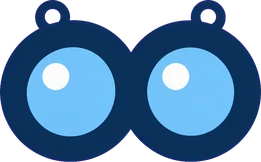
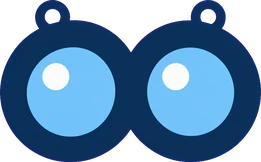
Maviş'e yeni hareketler: konuşma, ötme, sevinç, şaşırma, uyuklama, uçma, sevgi
- Yeni parçalar www/img/mavis (açık gaga, mutlu/şaşkın/uykulu gözler, uçuş kanatları, kabaran tepe); kuyruk iptal
- Sohbette Maviş'e dokununca 9 tepki sırayla; pencerelerde: yeni kayıtlar → sevinç, eBird fotoğrafları → şaşırma, ilk izlenim → sevgi, yeni gözlem hatırlatması → konuşma
- Service worker yeni parçaları da önbelleğe alır; paylaşım kartı yalnız gereken parçaları yükler

Claude-Session: https://claude.ai/code/session_012mXBh1959G4NnPsQR1ZGG4

diff --git a/www/index.html b/www/index.html
@@ -60,7 +60,7 @@
         .guide-body li { margin-bottom: 4px; }
         /* ===== Maviş animasyonları ===== */
         .mavis { display: inline-block; vertical-align: middle; overflow: visible; }
-        .mavis .mv-all, .mavis .mv-wing-l, .mavis .mv-wing-r, .mavis .mv-binoc, .mavis .mv-pupil { transform-box: fill-box; }
+        .mavis g, .mavis .mv-deco > * { transform-box: fill-box; }
         .mavis .mv-all { transform-origin: 50% 100%; animation: mv-bob 3s ease-in-out infinite; }
         .mavis .mv-eyes { animation: mv-blink-o 4s infinite; }
         .mavis .mv-eyes-c { opacity: 0; animation: mv-blink-c 4s infinite; }
@@ -92,6 +92,61 @@
         .mavis.mv-r-wave .mv-wing-r { transform-origin: 25% 10%; animation: mv-wave 0.55s ease-in-out 2; }
         @keyframes mv-qblink-o { 0%,100% { opacity: 1; } 25%,75% { opacity: 0; } }
         @keyframes mv-qblink-c { 0%,100% { opacity: 0; } 25%,75% { opacity: 1; } }
+        /* 20 Kasım: yeni hareketler (konuşma, ötme, sevinç, şaşırma, uyuklama, uçma, sevgi) – modlar .mavis-<ad>, dokunma tepkileri .mv-r-<ad> */
+        .mavis .mv-beak, .mavis .mv-e-mutlu, .mavis .mv-e-saskin, .mavis .mv-e-uyku, .mavis .mv-flyL, .mavis .mv-flyR, .mavis .mv-crest, .mavis .mv-deco > *, .mavis .mv-notes text, .mavis .mv-z text { opacity: 0; }
+        .mavis-talk .mv-beak { animation: mv-talk .5s steps(1) infinite; }
+        .mavis-sing .mv-beak, .mv-r-sing .mv-beak { opacity: 1; }
+        .mavis-sing .mv-eyes, .mavis-sing .mv-eyes-c, .mv-r-sing .mv-eyes, .mv-r-sing .mv-eyes-c,
+        .mavis-happy .mv-eyes, .mavis-happy .mv-eyes-c, .mv-r-happy .mv-eyes, .mv-r-happy .mv-eyes-c,
+        .mavis-love .mv-eyes, .mavis-love .mv-eyes-c, .mv-r-love .mv-eyes, .mv-r-love .mv-eyes-c,
+        .mavis-wow .mv-eyes, .mavis-wow .mv-eyes-c, .mv-r-wow .mv-eyes, .mv-r-wow .mv-eyes-c { opacity: 0; animation: none; }
+        .mavis-sing .mv-e-mutlu, .mv-r-sing .mv-e-mutlu, .mavis-happy .mv-e-mutlu, .mv-r-happy .mv-e-mutlu, .mavis-love .mv-e-mutlu, .mv-r-love .mv-e-mutlu { opacity: 1; }
+        .mavis-sing .mv-all, .mv-r-sing .mv-all { animation: mv-sway 1.2s ease-in-out infinite; }
+        .mavis-sing .mv-notes, .mv-r-sing .mv-notes { opacity: 1; }
+        .mavis-sing .mv-notes text, .mv-r-sing .mv-notes text { animation: mv-note 1.8s ease-out infinite; }
+        .mavis .mv-notes .n2 { animation-delay: .6s; } .mavis .mv-notes .n3 { animation-delay: 1.2s; }
+        .mavis-happy .mv-all { animation: mv-hop .55s ease-out 3, mv-bob 3s ease-in-out 1.65s infinite; }
+        .mv-r-happy .mv-all { animation: mv-hop .55s ease-out 3; }
+        .mavis-happy .mv-crest, .mv-r-happy .mv-crest { opacity: 1; transform-origin: 50% 100%; animation: mv-crest .55s ease-out 3; }
+        .mavis-happy .mv-wing-l, .mv-r-happy .mv-wing-l { transform-origin: 75% 10%; animation: mv-flapL .55s ease-in-out 3; }
+        .mavis-happy .mv-wing-r, .mv-r-happy .mv-wing-r { transform-origin: 25% 10%; animation: mv-flapR .55s ease-in-out 3; }
+        .mavis-wow .mv-e-saskin, .mv-r-wow .mv-e-saskin { opacity: 1; transform-origin: 50% 50%; animation: mv-pop .35s ease-out 1; }
+        .mavis-wow .mv-crest, .mv-r-wow .mv-crest { opacity: 1; transform-origin: 50% 100%; animation: mv-crestup .3s ease-out forwards; }
+        .mv-r-wow .mv-beak { opacity: 1; }
+        .mavis-wow .mv-all, .mv-r-wow .mv-all { animation: mv-jolt .4s ease-out 1, mv-bob 3s ease-in-out .4s infinite; }
+        .mavis-wow .mv-unlem, .mv-r-wow .mv-unlem { transform-origin: 50% 100%; animation: mv-unlem 1.8s ease-out 1; }
+        .mavis-sleep .mv-eyes { opacity: 0; animation: none; }
+        .mavis-sleep .mv-e-uyku { animation: mv-uyku 4s ease-in-out infinite; } .mavis-sleep .mv-eyes-c { animation: mv-uykuc 4s ease-in-out infinite; }
+        .mavis-sleep .mv-all { animation: mv-breath 4s ease-in-out infinite; }
+        .mavis-sleep .mv-z { opacity: 1; } .mavis-sleep .mv-z text { animation: mv-zz 3s ease-out infinite; }
+        .mavis .mv-z .z2 { animation-delay: 1s; } .mavis .mv-z .z3 { animation-delay: 2s; }
+        .mavis-fly .mv-wing-l, .mavis-fly .mv-wing-r, .mv-r-fly .mv-wing-l, .mv-r-fly .mv-wing-r { opacity: 0; }
+        .mavis-fly .mv-flyL, .mv-r-fly .mv-flyL { opacity: 1; transform-origin: 92% 88%; animation: mv-flyL .32s ease-in-out infinite; }
+        .mavis-fly .mv-flyR, .mv-r-fly .mv-flyR { opacity: 1; transform-origin: 8% 88%; animation: mv-flyR .32s ease-in-out infinite; }
+        .mavis-fly .mv-all, .mv-r-fly .mv-all { animation: mv-hover 1.6s ease-in-out infinite; }
+        .mavis-love .mv-kalp, .mv-r-love .mv-kalp { opacity: 1; transform-origin: 50% 50%; animation: mv-heart 1.4s ease-in-out infinite; }
+        .mavis-love .mv-wing-l, .mv-r-love .mv-wing-l { transform-origin: 75% 10%; animation: mv-hug-l 1.4s ease-in-out 2; }
+        .mavis-love .mv-wing-r, .mv-r-love .mv-wing-r { transform-origin: 25% 10%; animation: mv-hug-r 1.4s ease-in-out 2; }
+        @keyframes mv-talk { 0% { opacity: 1; } 50% { opacity: 0; } }
+        @keyframes mv-sway { 0%,100% { transform: rotate(-3deg); } 50% { transform: rotate(3deg); } }
+        @keyframes mv-note { 0% { opacity: 0; transform: translate(0,0); } 20% { opacity: 1; } 100% { opacity: 0; transform: translate(60px,-160px); } }
+        @keyframes mv-crest { 0%,100% { transform: scaleY(1); } 60% { transform: translateY(-14px) scaleY(1.06); } }
+        @keyframes mv-crestup { to { transform: translateY(-26px) scaleY(1.08); } }
+        @keyframes mv-flapL { 0%,100% { transform: rotate(0); } 50% { transform: rotate(28deg); } }
+        @keyframes mv-flapR { 0%,100% { transform: rotate(0); } 50% { transform: rotate(-28deg); } }
+        @keyframes mv-pop { 0% { transform: scale(.4); } 70% { transform: scale(1.15); } 100% { transform: scale(1); } }
+        @keyframes mv-jolt { 0% { transform: translateY(0); } 35% { transform: translateY(-40px); } 100% { transform: translateY(0); } }
+        @keyframes mv-unlem { 0% { opacity: 0; transform: scale(.4); } 15% { opacity: 1; transform: scale(1.15); } 25%,75% { opacity: 1; transform: scale(1); } 100% { opacity: 0; } }
+        @keyframes mv-uyku { 0%,55%,100% { opacity: 1; } 65%,90% { opacity: 0; } }
+        @keyframes mv-uykuc { 0%,55%,100% { opacity: 0; } 65%,90% { opacity: 1; } }
+        @keyframes mv-breath { 0%,100% { transform: scale(1,1); } 50% { transform: scale(1.03,.97); } }
+        @keyframes mv-zz { 0% { opacity: 0; transform: translate(0,0); } 25% { opacity: 1; } 100% { opacity: 0; transform: translate(50px,-110px); } }
+        @keyframes mv-flyL { 0%,100% { transform: rotate(18deg); } 50% { transform: rotate(-22deg); } }
+        @keyframes mv-flyR { 0%,100% { transform: rotate(-18deg); } 50% { transform: rotate(22deg); } }
+        @keyframes mv-hover { 0%,100% { transform: translateY(-40px); } 50% { transform: translateY(-85px); } }
+        @keyframes mv-heart { 0%,100% { transform: scale(.85); } 50% { transform: scale(1.1) translateY(-20px); } }
+        @keyframes mv-hug-l { 0%,100% { transform: rotate(0); } 50% { transform: rotate(-30deg) translateX(30px); } }
+        @keyframes mv-hug-r { 0%,100% { transform: rotate(0); } 50% { transform: rotate(30deg) translateX(-30px); } }
         .mv-gem { color: #1662B6; font-weight: 600; text-decoration: underline; cursor: pointer; }
         #ai-settings.vurgu { animation: ai-vurgu 1.6s ease-out 1; border-radius: 8px; }
         @keyframes ai-vurgu { 0%,40% { box-shadow: 0 0 0 3px #F5C518; } 100% { box-shadow: 0 0 0 3px rgba(245,197,24,0); } }
@@ -1273,7 +1328,7 @@
         // Çizim: Copilot parçaları (magaza/maskot → scripts/maskot.py + maskot-birlestir.py → img/mavis/*.webp).
         // Parçalar ayrı (animasyon için): mv-all, mv-wing-l, mv-wing-r, mv-eyes (açık), mv-eyes-c (kapalı), mv-pupil, mv-binoc, mv-strap
         // mode: 'idle' (göz kırpar), 'wave' (el sallar), 'think' (dürbünü gözüne kaldırır), 'look' (sağa sola bakar)
-        const MAVIS_P = {"govde":[253,37,745,1163],"kanatL":[168,713,215,345],"kanatR":[868,713,215,345],"gozL":[390,371,150,154],"gozR":[710,371,150,155],"kapaliL":[382,416,165,77],"kapaliR":[702,417,165,77],"durbun":[432,759,390,242]};
+        const MAVIS_P = {"govde":[253,38,745,1162],"kanatL":[168,713,215,344],"kanatR":[868,713,215,344],"gozL":[390,371,150,154],"gozR":[710,371,150,155],"kapaliL":[382,416,165,77],"kapaliR":[702,416,165,77],"durbun":[432,759,390,241],"gaga":[566,447,112,109],"mutluL":[390,410,150,84],"mutluR":[710,410,150,84],"saskinL":[376,357,178,177],"saskinR":[696,357,178,177],"uykuL":[381,364,168,148],"uykuR":[701,364,168,147],"acikL":[90,490,320,382],"acikR":[844,490,320,382],"tepe":[279,10,690,345]};
         function mavisSVG(size, mode, src) {
             mode = mode || 'idle';
             const im = k => { const [x, y, w, h] = MAVIS_P[k]; return `<image href="${src ? src(k) : 'img/mavis/' + k + '.webp'}" x="${x}" y="${y}" width="${w}" height="${h}"/>`; };
@@ -1281,17 +1336,29 @@
               <g class="mv-all">
                 <ellipse cx="627" cy="1196" rx="300" ry="20" fill="#0A3E70" opacity="0.1"/>
                 ${im('govde')}
+                <g class="mv-crest">${im('tepe')}</g>
                 <path class="mv-strap" d="M432,688 C455,720 485,752 512,780 M822,688 C799,720 769,752 742,780" stroke="#7A4A22" stroke-width="12" fill="none" stroke-linecap="round"/>
                 <g class="mv-wing-l">${im('kanatL')}</g>
                 <g class="mv-wing-r">${im('kanatR')}</g>
+                <g class="mv-flyL">${im('acikL')}</g><g class="mv-flyR">${im('acikR')}</g>
+                <g class="mv-beak">${im('gaga')}</g>
                 <g class="mv-eyes"><g class="mv-pupil">${im('gozL')}${im('gozR')}</g></g>
                 <g class="mv-eyes-c">${im('kapaliL')}${im('kapaliR')}</g>
+                <g class="mv-e-mutlu">${im('mutluL')}${im('mutluR')}</g>
+                <g class="mv-e-saskin">${im('saskinL')}${im('saskinR')}</g>
+                <g class="mv-e-uyku">${im('uykuL')}${im('uykuR')}</g>
                 <g class="mv-binoc">${im('durbun')}</g>
+              </g>
+              <g class="mv-deco">
+                <g class="mv-notes" fill="#1662B6"><text class="n1" x="1000" y="380" font-size="120">♪</text><text class="n2" x="1080" y="300" font-size="100">♫</text><text class="n3" x="960" y="240" font-size="90">♪</text></g>
+                <g class="mv-z" fill="#6b7a8c" font-weight="bold" font-family="sans-serif"><text class="z1" x="930" y="330" font-size="80">z</text><text class="z2" x="1010" y="240" font-size="105">z</text><text class="z3" x="1100" y="140" font-size="130">Z</text></g>
+                <text class="mv-unlem" x="1000" y="250" font-size="220" font-weight="900" fill="#F5A623" font-family="sans-serif">!</text>
+                <path class="mv-kalp" d="M1010,330 c-40,-60 -130,-20 -95,45 c20,35 95,80 95,80 c0,0 75,-45 95,-80 c35,-65 -55,-105 -95,-45z" fill="#F06A8A"/>
               </g>
             </svg>`;
         }
-        // Sohbette Maviş'e dokununca sırayla tepki: zıplar → göz kırpar → dürbünle bakar → kanadıyla selam verir
-        const MAVIS_TEPKI = [['mv-r-hop', 700], ['mv-r-blink', 600], ['mv-r-peek', 2500], ['mv-r-wave', 1200]];
+        // Sohbette Maviş'e dokununca sırayla tepki: zıplar → öter → göz kırpar → sevinir → dürbünle bakar → şaşırır → selam verir → sevgi → uçar
+        const MAVIS_TEPKI = [['mv-r-hop', 700], ['mv-r-sing', 2600], ['mv-r-blink', 600], ['mv-r-happy', 1700], ['mv-r-peek', 2500], ['mv-r-wow', 1900], ['mv-r-wave', 1200], ['mv-r-love', 2800], ['mv-r-fly', 2400]];
         let mavisTepkiNo = 0;
         function mavisTepki(svg) {
             const [cls, ms] = MAVIS_TEPKI[mavisTepkiNo++ % MAVIS_TEPKI.length];
@@ -3709,7 +3776,7 @@
                 sessionStorage.setItem('upd_reminded', '1');
                 let d = document.createElement('div'); d.id = 'updask'; d.setAttribute('data-no-i18n', '');
                 d.innerHTML = `<div class="fa-card" role="dialog" aria-modal="true">
-                    <div class="fa-top">${mavisSVG(64, 'wave')}<div><b>${LT('Yeni gözlemlerin var mı?', 'Any new sightings?')}</b><div class="fa-sub">${LT(`Verini en son ${days} gün önce yükledin.`, `You last updated your data ${days} days ago.`)} ${LT("Yeni gözlemlerin varsa eBird'den güncel dosyanı indirip yükle; haritan, kertiklerin ve grafiklerin güncellensin.", 'If you have new sightings, download your latest file from eBird and upload it to update your map, lifers and charts.')}</div></div></div>
+                    <div class="fa-top">${mavisSVG(64, 'talk')}<div><b>${LT('Yeni gözlemlerin var mı?', 'Any new sightings?')}</b><div class="fa-sub">${LT(`Verini en son ${days} gün önce yükledin.`, `You last updated your data ${days} days ago.`)} ${LT("Yeni gözlemlerin varsa eBird'den güncel dosyanı indirip yükle; haritan, kertiklerin ve grafiklerin güncellensin.", 'If you have new sightings, download your latest file from eBird and upload it to update your map, lifers and charts.')}</div></div></div>
                     <button class="fa-btn fa-rate" data-a="go">${IC('yenile')} ${LT('Verilerimi güncelle', 'Update my data')}</button>
                     <div class="fa-foot"><button class="fa-link" data-a="later">${LT('Sonra', 'Later')}</button><button class="fa-link" data-a="never">${LT('Bir daha hatırlatma', "Don't remind me again")}</button></div>
                 </div>`;
@@ -3747,7 +3814,7 @@
             };
             let d = document.createElement('div'); d.id = 'fbask'; d.setAttribute('data-no-i18n', '');
             d.innerHTML = `<div class="fa-card" role="dialog" aria-modal="true">
-                <div class="fa-top">${mavisSVG(64, 'wave')}<div><b>${first ? LT('İlk izlenimin nasıl?', 'First impressions?') : LT('Kuş Atlası nasıl gidiyor?', 'How is Bird Atlas going?')}</b><div class="fa-sub">${first ? LT('Bir şey takıldıysa ya da aklına bir fikir geldiyse şimdi yazman bize çok yardımcı olur 💙', 'If something got stuck or you have an idea, telling us now helps a lot 💙') : LT('Uygulamayı birlikte geliştiriyoruz. Bir dakikanı ayırırsan çok seviniriz 💙', 'We build this app together. A minute of your time means a lot 💙')}</div></div></div>
+                <div class="fa-top">${mavisSVG(64, 'love')}<div><b>${first ? LT('İlk izlenimin nasıl?', 'First impressions?') : LT('Kuş Atlası nasıl gidiyor?', 'How is Bird Atlas going?')}</b><div class="fa-sub">${first ? LT('Bir şey takıldıysa ya da aklına bir fikir geldiyse şimdi yazman bize çok yardımcı olur 💙', 'If something got stuck or you have an idea, telling us now helps a lot 💙') : LT('Uygulamayı birlikte geliştiriyoruz. Bir dakikanı ayırırsan çok seviniriz 💙', 'We build this app together. A minute of your time means a lot 💙')}</div></div></div>
                 ${rate ? `<button class="fa-btn fa-rate" data-a="rate">⭐ ${LT("Google Play'de değerlendir", 'Rate on Google Play')}</button>` : ''}
                 ${first ? '' : `<button class="fa-btn" data-a="tell">📣 ${LT('Kuşçu arkadaşlarına öner', 'Recommend to birding friends')}</button>`}
                 <button class="fa-btn" data-a="bug">🐞 ${LT('Bir hata gördüm', 'I found a bug')}</button>
@@ -3840,7 +3907,7 @@
             let old = document.getElementById('appmsg'); if (old) old.remove();
             let d = document.createElement('div'); d.id = 'appmsg'; d.setAttribute('data-no-i18n', '');
             d.innerHTML = `<div class="fa-card">
-                <div class="fa-top">${mavisSVG(60, 'wave')}<div><b>${LT('Yeni kayıtların eklendi 🎉', 'Your new records are in 🎉')}</b>
+                <div class="fa-top">${mavisSVG(60, 'happy')}<div><b>${LT('Yeni kayıtların eklendi 🎉', 'Your new records are in 🎉')}</b>
                     <div class="fa-sub">${LT(`${fresh.length} yeni gözlem · ${dates.length} gün · ${spNew.size} tür`, `${fresh.length} new sightings · ${dates.length} days · ${spNew.size} species`)}</div></div></div>
                 <div class="fa-sub" style="margin:-4px 0 10px;">📅 ${escHtml(dTxt)}</div>
                 ${newLifers.length ? `<div class="wn-lifer"><b>🏆 ${newLifers.length === 1 ? LT('Yeni kertik! Tebrikler 🎉', 'New lifer! Congrats 🎉') : LT(`${newLifers.length} yeni kertik! Tebrikler 🎉`, `${newLifers.length} new lifers! Congrats 🎉`)}</b>
@@ -4099,7 +4166,7 @@
         function loadImgMemo(src, cors) { if (!src) return Promise.resolve(null); if (!_imgMemo[src]) _imgMemo[src] = loadImg(src, cors); return _imgMemo[src]; }
         // Paylaşım kartı için Maviş: parçalar bir canvas'a birleştirilir (SVG içindeki dış resimler <img> ile çizilemez)
         function mavisImg(mode) {
-            if (!_imgMemo.__mavis) _imgMemo.__mavis = Promise.all(Object.keys(MAVIS_P).map(k => loadImg('img/mavis/' + k + '.webp', false).then(im => [k, im]))).then(list => {
+            if (!_imgMemo.__mavis) _imgMemo.__mavis = Promise.all(['govde', 'kanatL', 'kanatR', 'gozL', 'gozR', 'durbun'].map(k => loadImg('img/mavis/' + k + '.webp', false).then(im => [k, im]))).then(list => {
                 const m = Object.fromEntries(list), c = document.createElement('canvas'); c.width = c.height = 560;
                 const g = c.getContext('2d'); g.scale(560 / 1180, 560 / 1180); g.translate(-40, -30);
                 const d = k => { if (m[k]) { const [x, y, w, h] = MAVIS_P[k]; g.drawImage(m[k], x, y, w, h); } };
@@ -5676,7 +5743,7 @@
             if (busy) return setTimeout(maybeAskMl, 4000);
             let d = document.createElement('div'); d.id = 'mlask'; d.setAttribute('data-no-i18n', '');
             d.innerHTML = `<div class="fa-card">
-                <div class="fa-top">${mavisSVG(64, 'wave')}<div><b>${LT('eBird fotoğrafların bulundu 📷', 'Found your eBird photos 📷')}</b>
+                <div class="fa-top">${mavisSVG(64, 'wow')}<div><b>${LT('eBird fotoğrafların bulundu 📷', 'Found your eBird photos 📷')}</b>
                 <div class="fa-sub">${LT(`eBird'e ${n} türün fotoğrafını yüklemişsin. Bu türlerde Wikipedia fotoğrafı yerine kendi fotoğrafını (en yeni gözleminden) göstereyim mi?`, `You've uploaded photos of ${n} species to eBird. Shall I show your own photo (from your latest sighting) instead of the Wikipedia photo for these species?`)}</div></div></div>
                 <button class="fa-btn fa-rate" data-k="yes">${LT('Evet, fotoğraflarımı kullan', 'Yes, use my photos')}</button>
                 <button class="fa-btn" data-k="no">${LT('Hayır, Wikipedia kalsın', 'No, keep Wikipedia')}</button>

diff --git a/www/sw.js b/www/sw.js
@@ -2,7 +2,7 @@
 // Harita, Wikipedia, eBird ve Gemini istekleri (başka adresler) burada saklanmaz.
 const CACHE = 'kus-atlasi-__VERSION__';
 self.addEventListener('install', e => {
-  e.waitUntil(caches.open(CACHE).then(c => c.addAll(['./', 'index.html', 'manifest.webmanifest', 'img/logo.png', ...['govde', 'kanatL', 'kanatR', 'gozL', 'gozR', 'kapaliL', 'kapaliR', 'durbun'].map(k => 'img/mavis/' + k + '.webp')])).then(() => self.skipWaiting()));
+  e.waitUntil(caches.open(CACHE).then(c => c.addAll(['./', 'index.html', 'manifest.webmanifest', 'img/logo.png', ...['govde', 'kanatL', 'kanatR', 'gozL', 'gozR', 'kapaliL', 'kapaliR', 'durbun', 'gaga', 'mutluL', 'mutluR', 'saskinL', 'saskinR', 'uykuL', 'uykuR', 'acikL', 'acikR', 'tepe'].map(k => 'img/mavis/' + k + '.webp')])).then(() => self.skipWaiting()));
 });
 self.addEventListener('activate', e => {
   e.waitUntil(caches.keys().then(ks => Promise.all(ks.filter(k => k !== CACHE).map(k => caches.delete(k)))).then(() => self.clients.claim()));

diff --git a/scripts/maskot-birlestir.py b/scripts/maskot-birlestir.py
@@ -2,7 +2,7 @@
 # Çıktı: www/img/mavis/<ad>.webp + yerleşim (www/img/mavis/yerlesim.json; index.html'deki MAVIS_P'ye elle kopyalanır)
 # Yerleşim 1254×1254 tuvalde (Copilot görselinin boyutu); gövde kendi yerinde durur, diğerleri ona göre.
 import os, io, base64, json
-from PIL import Image, ImageOps
+from PIL import Image, ImageOps, ImageFilter
 
 KOK = os.path.dirname(os.path.dirname(os.path.abspath(__file__)))
 T = os.path.join(KOK, 'magaza', 'maskot', 'temiz')
@@ -15,10 +15,11 @@ def goz(kaynak, sol):        # göz çiftinden tek gözü kes
 
 OUT = os.path.join(KOK, 'www', 'img', 'mavis'); os.makedirs(OUT, exist_ok=True)
 P = {}
-def koy(ad, im, cx, cy, gen, aynala=False):
+def koy(ad, im, cx, cy, gen, aynala=False, ust=None):
     im = im.crop(im.getbbox())
     if aynala: im = ImageOps.mirror(im)
     h = gen * im.height / im.width
+    if ust is not None: cy = ust + h / 2         # üst kenarı sabit yerleştir
     px = max(1, round(gen * OLCEK * 1.5)), max(1, round(h * OLCEK * 1.5))   # 1.5x keskinlik
     im = im.resize(px, Image.LANCZOS)
     im.save(os.path.join(OUT, ad + '.webp'), 'WEBP', quality=88, method=6)
@@ -34,6 +35,24 @@ koy('gozR', goz('goz-acik.png', False), 785, 448, 150)
 koy('kapaliL', goz('goz-kapali.png', True), 465, 455, 165)
 koy('kapaliR', goz('goz-kapali.png', False), 785, 455, 165)
 koy('durbun', Image.open(os.path.join(T, 'durbun.png')), 627, 880, 390)
+
+# --- 20 Kasım: yeni parçalar (konuşma/ötme, mutlu/şaşkın/uykulu gözler, uçuş kanatları, kabaran tepe) ---
+def ac(ad): return Image.open(os.path.join(T, ad + '.png'))
+def cerceve(im, px):                 # mutlu göz yayları koyu göz bandında kaybolmasın: beyaz kontur
+    im = im.crop(im.getbbox()); pad = px + 2
+    big = Image.new('RGBA', (im.width + 2 * pad, im.height + 2 * pad), (0, 0, 0, 0)); big.alpha_composite(im, (pad, pad))
+    a = big.split()[3].filter(ImageFilter.MaxFilter(px * 2 + 1))
+    out = Image.new('RGBA', big.size, (0, 0, 0, 0)); out.paste(Image.new('RGBA', big.size, (250, 250, 250, 255)), (0, 0), a)
+    out.alpha_composite(big); return out
+def yari(im, sol):
+    w = im.width; im = im.crop((0, 0, w // 2, im.height)) if sol else im.crop((w // 2, 0, w, im.height)); return im.crop(im.getbbox())
+koy('gaga', ac('gaga-acik'), 622, 0, 112, ust=447)
+m = cerceve(ac('goz-mutlu'), 10)
+koy('mutluL', yari(m, True), 465, 452, 150); koy('mutluR', yari(m, False), 785, 452, 150)
+s_ = ac('goz-saskin'); koy('saskinL', yari(s_, True), 465, 446, 178); koy('saskinR', yari(s_, False), 785, 446, 178)
+u = ac('goz-uykulu'); koy('uykuL', yari(u, True), 465, 438, 168); koy('uykuR', yari(u, False), 785, 438, 168)
+koy('acikL', ac('kanat-acik'), 250, 0, 320, ust=490); koy('acikR', ac('kanat-acik'), 1004, 0, 320, True, ust=490)
+koy('tepe', ac('tepe'), 624, 0, 690, ust=10)
 
 # yerleşim: aşağıdaki satır index.html'deki MAVIS_P'ye kopyalanır
 print(json.dumps(P, separators=(',', ':')))

diff --git a/magaza/maskot/deneme/parca.py b/magaza/maskot/deneme/parca.py
@@ -36,7 +36,6 @@ s=ac('goz-saskin'); koy('saskinL',yari(s,1),465,446,178); koy('saskinR',yari(s,0
 u=ac('goz-uykulu'); koy('uykuL',yari(u,1),465,438,168); koy('uykuR',yari(u,0),785,438,168)
 koy('acikL',ac('kanat-acik'),250,0,320,ust=490); koy('acikR',ac('kanat-acik'),1004,0,320,True,ust=490)
 koy('tepe',ac('tepe'),624,0,690,ust=10)
-koy('kuyruk',ac('kuyruk'),627,0,250,ust=1010)
 json.dump({k:v for k,v in IMG.items() if not k.endswith('_pil')},open('img.json','w'))
 json.dump(P,open('p.json','w'))
 # önizleme kompozitleri
@@ -45,10 +44,10 @@ def sahne(katmanlar):
     for k in katmanlar:
         im,(x,y,w,h)=IMG[k+'_pil']; c.alpha_composite(im.resize((w,h)),(max(0,x),max(0,y)) if x>=0 and y>=0 else (0,0))
     return c.convert('RGB').resize((400,400))
-pozlar=[['kuyruk','govde','kanatL','kanatR','gozL','gozR','durbun'],
- ['kuyruk','govde','kanatL','kanatR','gaga','mutluL','mutluR','durbun'],
- ['kuyruk','govde','tepe','kanatL','kanatR','gaga','saskinL','saskinR','durbun'],
- ['kuyruk','acikL','acikR','govde','uykuL','uykuR','durbun']]
+pozlar=[['govde','kanatL','kanatR','gozL','gozR','durbun'],
+ ['govde','kanatL','kanatR','gaga','mutluL','mutluR','durbun'],
+ ['govde','tepe','kanatL','kanatR','gaga','saskinL','saskinR','durbun'],
+ ['acikL','acikR','govde','uykuL','uykuR','durbun']]
 o=Image.new('RGB',(1600,400),'white')
 for i,pz in enumerate(pozlar): o.paste(sahne(pz),(i*400,0))
 o.save('onizleme.png'); print(P)

diff --git a/CLAUDE.md b/CLAUDE.md
@@ -31,7 +31,7 @@ android/           depoda YOK (.gitignore); kullanıcının bilgisayarında duru
 - **Play mağaza sayfası Claude'un işi:** metinleri ve görselleri Claude değiştirir (`magaza/metinler/<dil>/`, `magaza/gorseller/<klasör>/`, `magaza/gorseller/ikon-512.png`, diller `magaza/ayarlar.json`), Enes yalnız KOMUTLAR 5 (metinler) / 6 (görseller) çalıştırır. Play ikonu şeffaf olmamalı (beyaz zemin; şeffafsa Play kenarı renkle dolduruyor). Service account JSON proje DIŞINDA (`Documents\kus-atlasi\`), depoya asla girmez; izinleri: uygulama bilgisi görüntüle + mağaza varlığını yönet + test kanalları + (KOMUTLAR 4 için) üretime yayınla.
 - Mağaza ekran görüntüleri + görseller: KOMUTLAR 7 = `npm run ekranlar` (`scripts/ekranlar.mjs`, ortak kısım `scripts/ekran-ortak.mjs`: Edge ile web uygulaması telefon boyutunda 412×800 ×3, örnek veri, sahte Gemini/eBird cevapları, 10 ekran × 6 dil → `magaza/ham-ekranlar/<dil>/`) + `npm run gorseller` (`scripts/gorseller.mjs`: başlık + telefon çerçevesi → `magaza/gorseller/<dil>/telefon-01…08.jpg` + `one-cikan.jpg` (6 dil; kaynak `magaza/kaynak/one-cikan.html`), `magaza/instagram/ig_en_01…10.jpg`, `site/img/shots/<ekran>-<dil>.webp`). Hepsi Enes'in bilgisayarında, Claude görüntü işlemez; başlıklar `gorseller.mjs` içinde 6 dilde. Enes push eder, sonra KOMUTLAR 6.
 - Tanıtım videosu: KOMUTLAR 8 (9 = yalnız montaj) = `npm run video` (`scripts/video.mjs`): 7 sahneyi ekran yayınıyla (CDP screencast) kaydeder → `magaza/video/ham/` (depoya girmez), HTML sahnede kare kare montaj (açılış/kapanışta Maviş, başlıklar, geçişler), ffmpeg (`ffmpeg-static`) + `magaza/video/muzik/` içindeki ilk parça → `magaza/video/birdatlas-<dil>-yatay.mp4` (1920×1080) ve `-dikey.mp4` (1080×1920). `npm run video -- montaj` kayıtsız yeniden montaj. Sahneler/başlıklar dosyanın başında. Play'e video yalnız YouTube linkiyle (liste dışı, reklamsız; müzikte Content ID olmamalı — ilk parça "Lantern Walk" hak talebi aldı, yerine Pixabay "Just Me and My Ukulele"). Linkler `magaza/metinler/<dil>/video.txt` → KOMUTLAR 5 mağazaya yazar. SONRAKİ VİDEODA: YouTube'a yüklemeyi de otomatikleştir (YouTube Data API, OAuth; liste dışı, başlık/açıklama 6 dilde, çıkan linkleri video.txt'ye yaz) – Enes 19 Kasım'da istedi. Dikey videolar Instagram Reels/hikâye için. Sitede "Uygulamayı 40 saniyede gör" bölümü: `npm run web` yatay videoları `/video/tanitim-<dil>.mp4` olarak kopyalar (afiş `site/img/video/poster-<dil>.jpg`, tıklanınca yüklenir). Sonraki kayıtta yapılacaklar `video.mjs` başında.
-- Maviş çizimi: Copilot parçaları `magaza/maskot/` → `python3 scripts/maskot.py` (magenta zemini temizler) → `python3 scripts/maskot-birlestir.py` (yerleşim + `www/img/mavis/*.webp`; çıkan MAVIS_P satırı index.html'e).
+- Maviş çizimi: Copilot parçaları `magaza/maskot/` → `python3 scripts/maskot.py` (magenta zemini temizler) → `python3 scripts/maskot-birlestir.py` (yerleşim + `www/img/mavis/*.webp`; çıkan MAVIS_P satırı index.html'e). Parçalar (20 Kasım): gövde, kanat, açık/kapalı/mutlu/şaşkın/uykulu göz, açık gaga, uçuş kanadı, kabaran tepe, dürbün (kuyruk iptal; ayaklar parçası kullanılmıyor, gövdede çizili). Modlar `mavisSVG(boyut, mod)`: idle, wave, think, look, talk, sing, happy, wow, sleep, fly, love; sohbette dokununca `MAVIS_TEPKI` sırası. Deneme sayfası: `magaza/maskot/deneme/`.
 - Yayın notları: `magaza/surum-notlari/<sürüm>.txt` (Play biçiminde, `<tr-TR>…</tr-TR>`; Play Console'da sürüm notları kutusuna olduğu gibi yapıştırılır).
 - Kendi denemesi (Enes): Android Studio → Generate Signed Bundle → `npm run paylas` → en yeni .aab'yi Play "Dahili uygulama paylaşımı"na yükler, kurulum linkini yazar (panoya da kopyalar). Sürüm kodu artmaz, kullanıcıya gitmez. Ortak kod: `scripts/play-ortak.mjs`.
 
